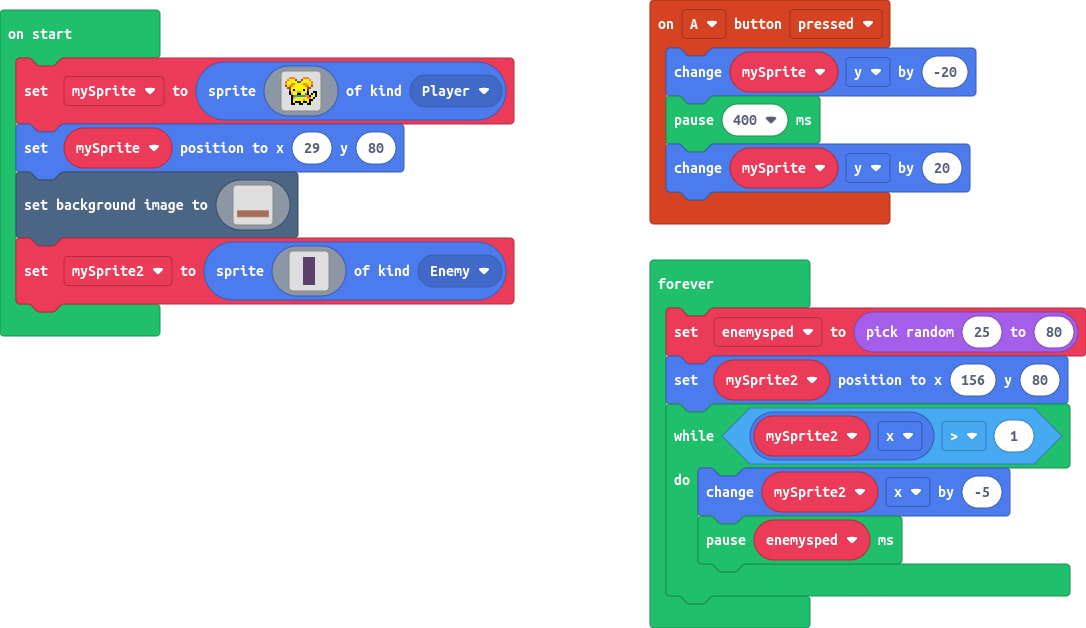
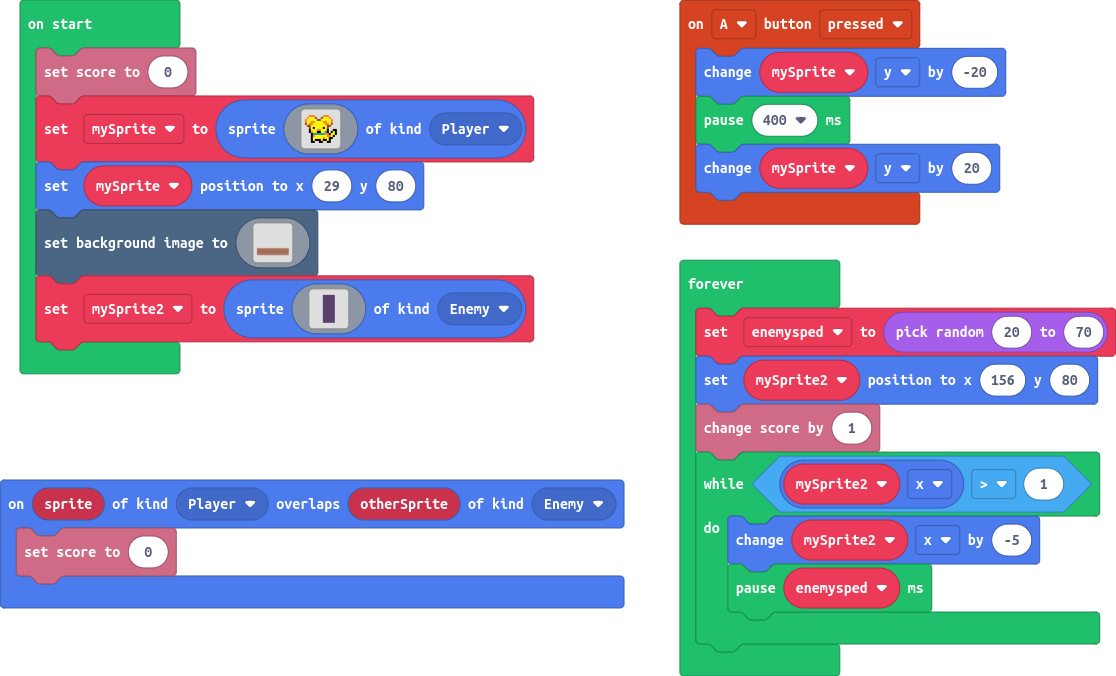
scoring

diff --git a/main.ts b/main.ts
@@ -3,8 +3,12 @@ controller.A.onEvent(ControllerButtonEvent.Pressed, function () {
     pause(400)
     mySprite.y += 20
 })
+sprites.onOverlap(SpriteKind.Player, SpriteKind.Enemy, function (sprite, otherSprite) {
+    info.setScore(0)
+})
 let enemysped = 0
 let mySprite: Sprite = null
+info.setScore(0)
 mySprite = sprites.create(img`
     . . 4 4 4 . . . . 4 4 4 . . . . 
     . 4 5 5 5 e . . e 5 5 5 4 . . . 
@@ -163,8 +167,9 @@ let mySprite2 = sprites.create(img`
     . . . . . . . . . . . . . . . . 
     `, SpriteKind.Enemy)
 forever(function () {
-    enemysped = randint(25, 80)
+    enemysped = randint(20, 70)
     mySprite2.setPosition(156, 80)
+    info.changeScoreBy(1)
     while (mySprite2.x > 1) {
         mySprite2.x += -5
         pause(enemysped)
